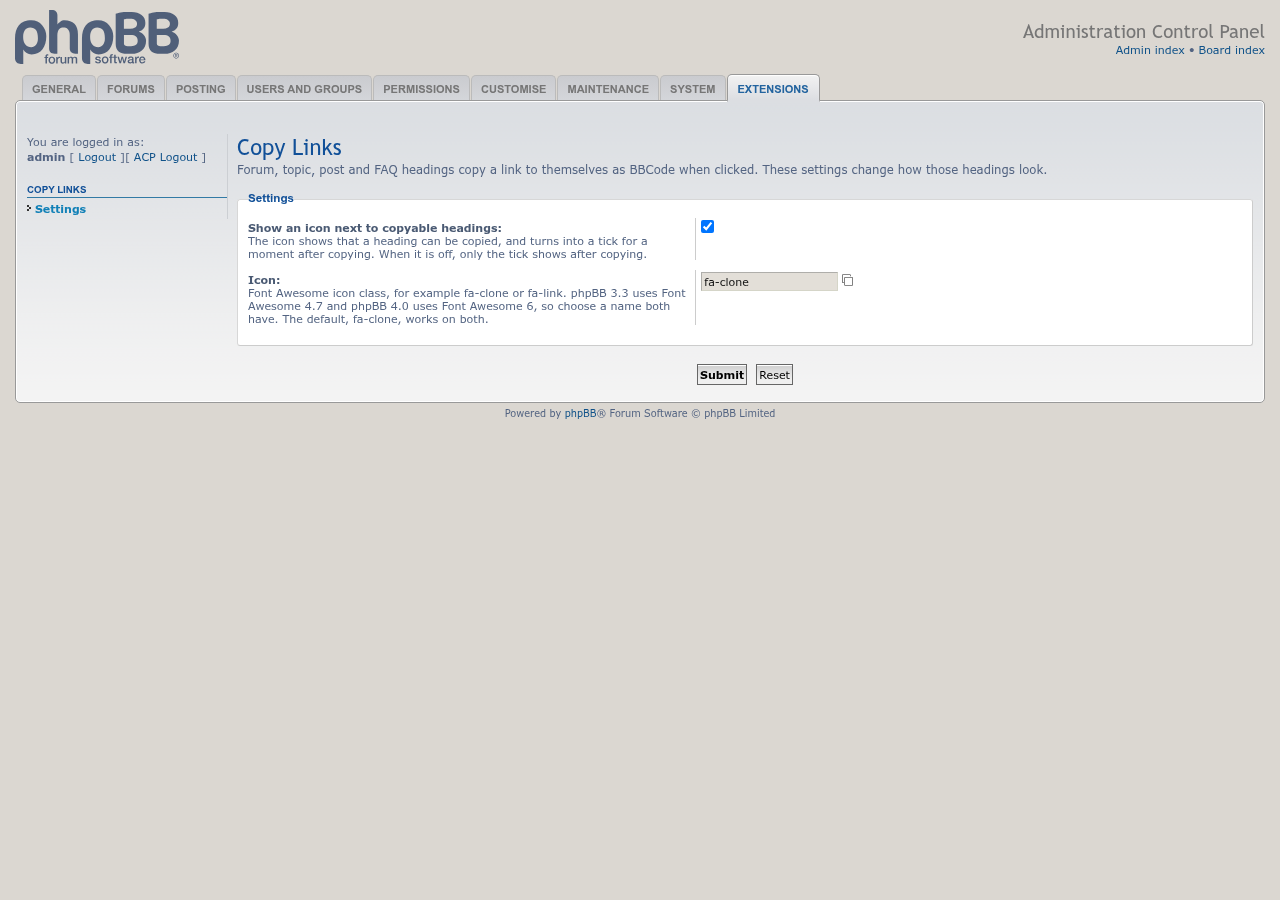
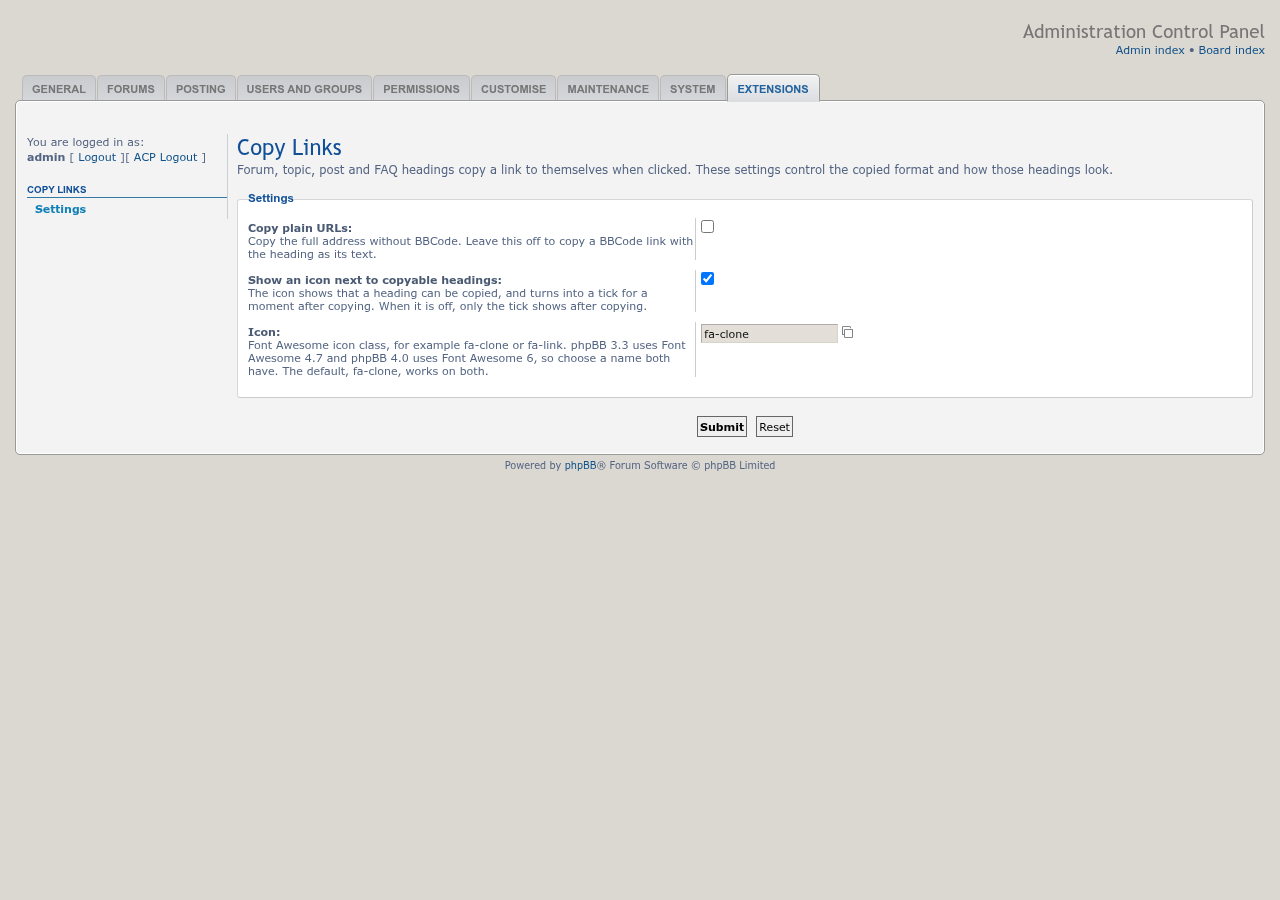
Add plain URL copying and restore anchor focus (#6)
* Align PHP requirements with extension enablement

* Add plain URL copying and restore anchor focus

Changed region(s): [[0.0, 0.2489, 1.0, 0.5289], [0.0, 0.0, 0.1562, 0.0933], [0.5, 0.1867, 0.8438, 0.2178]]

diff --git a/styles/all/template/copylinks.js b/styles/all/template/copylinks.js
@@ -2,7 +2,7 @@
  * Copy Links extension for the phpBB Forum Software package
  *
  * Turns forum, topic, post and FAQ headings into "copy link" controls. A
- * click copies [url=<absolute link>]<heading text>[/url] to the clipboard.
+ * click copies a BBCode link or a plain URL to the clipboard.
  * Links are built from IDs, so they never carry a session ID, and always point
  * at the forum, topic or post itself rather than a page within it.
  *
@@ -17,6 +17,7 @@
 		return;
 	}
 
+	var plainUrl = status.getAttribute('data-plain-url') === '1';
 	var boardUrl = status.getAttribute('data-board-url');
 	var phpExt = status.getAttribute('data-php-ext');
 	var icon = status.getAttribute('data-icon');
@@ -222,6 +223,12 @@
 		}
 
 		event.preventDefault();
-		copy(target, bbcodeFor(url, headingText(target)));
+		// Keep the activated link focused and restore same-page anchor targeting.
+		var fragment = target.getAttribute('href').split('#')[1];
+		if (fragment && document.getElementById(fragment)) {
+			window.location.hash = fragment;
+		}
+		target.focus({preventScroll: true});
+		copy(target, plainUrl ? url : bbcodeFor(url, headingText(target)));
 	});
 })();

diff --git a/styles/all/template/event/overall_footer_after.html b/styles/all/template/event/overall_footer_after.html
@@ -1,11 +1,12 @@
 {% if not S_IS_BOT %}
 	<div id="copylinks-status" class="copylinks-sr-only" role="status" aria-live="polite"
+		data-plain-url="{% if S_COPYLINKS_PLAIN_URL %}1{% else %}0{% endif %}"
 		data-board-url="{{ U_COPYLINKS_BOARD|e('html_attr') }}"
 		data-php-ext="{{ COPYLINKS_PHP_EXT|e('html_attr') }}"
 		data-icon="{{ COPYLINKS_ICON|e('html_attr') }}"
 		data-copied="{{ lang('COPYLINKS_COPIED')|e('html_attr') }}"
 		data-copy-failed="{{ lang('COPYLINKS_COPY_FAILED')|e('html_attr') }}"
-		data-hint="{{ lang('COPYLINKS_HINT')|e('html_attr') }}"></div>
-	<span id="copylinks-hint" hidden>{{ lang('COPYLINKS_HINT') }}</span>
+		data-hint="{{ lang(S_COPYLINKS_PLAIN_URL ? 'COPYLINKS_HINT_PLAIN' : 'COPYLINKS_HINT')|e('html_attr') }}"></div>
+	<span id="copylinks-hint" hidden>{{ lang(S_COPYLINKS_PLAIN_URL ? 'COPYLINKS_HINT_PLAIN' : 'COPYLINKS_HINT') }}</span>
 	{% INCLUDEJS '@phpbbmodders_copylinks/copylinks.js' %}
 {% endif %}

diff --git a/adm/style/acp_copylinks_settings.html b/adm/style/acp_copylinks_settings.html
@@ -7,6 +7,10 @@
 	<fieldset>
 		<legend>{{ lang('ACP_COPYLINKS_SETTINGS') }}</legend>
 		<dl>
+			<dt><label for="copylinks_plain_url">{{ lang('COPYLINKS_PLAIN_URL') }}{{ lang('COLON') }}</label><br><span id="copylinks_plain_url_explain">{{ lang('COPYLINKS_PLAIN_URL_EXPLAIN') }}</span></dt>
+			<dd><input type="checkbox" id="copylinks_plain_url" name="copylinks_plain_url" value="1" aria-describedby="copylinks_plain_url_explain"{% if S_COPYLINKS_PLAIN_URL %} checked{% endif %}></dd>
+		</dl>
+		<dl>
 			<dt><label for="copylinks_icon_enable">{{ lang('COPYLINKS_ICON_ENABLE') }}{{ lang('COLON') }}</label><br><span id="copylinks_icon_enable_explain">{{ lang('COPYLINKS_ICON_ENABLE_EXPLAIN') }}</span></dt>
 			<dd><input type="checkbox" id="copylinks_icon_enable" name="copylinks_icon_enable" value="1" aria-describedby="copylinks_icon_enable_explain"{% if S_COPYLINKS_ICON_ENABLE %} checked{% endif %}></dd>
 		</dl>

diff --git a/acp/main_module.php b/acp/main_module.php
@@ -11,8 +11,7 @@
 namespace phpbbmodders\copylinks\acp;
 
 /**
- * ACP settings page: whether to show an icon next to copyable headings, and
- * which Font Awesome icon to use.
+ * ACP settings page: copy format and the icon next to copyable headings.
  */
 class main_module
 {
@@ -55,12 +54,14 @@ class main_module
 
 			$config->set('copylinks_icon_enable', (int) $request->variable('copylinks_icon_enable', false));
 			$config->set('copylinks_icon', $icon);
+			$config->set('copylinks_plain_url', (int) $request->variable('copylinks_plain_url', false));
 
 			$phpbb_log->add('admin', $user->data['user_id'], $user->ip, 'LOG_COPYLINKS_SETTINGS');
 			trigger_error($language->lang('CONFIG_UPDATED') . adm_back_link($this->u_action));
 		}
 
 		$template->assign_vars([
+			'S_COPYLINKS_PLAIN_URL'	=> !empty($config['copylinks_plain_url']),
 			'U_ACTION'					=> $this->u_action,
 			'S_COPYLINKS_ICON_ENABLE'	=> !empty($config['copylinks_icon_enable']),
 			'COPYLINKS_ICON'			=> !empty($config['copylinks_icon']) ? $config['copylinks_icon'] : self::DEFAULT_ICON,

diff --git a/language/en/acp_copylinks.php b/language/en/acp_copylinks.php
@@ -19,7 +19,9 @@ if (empty($lang) || !is_array($lang))
 }
 
 $lang = array_merge($lang, [
-	'ACP_COPYLINKS_SETTINGS_EXPLAIN'	=> 'Forum, topic, post and FAQ headings copy a link to themselves as BBCode when clicked. These settings change how those headings look.',
+	'COPYLINKS_PLAIN_URL'				=> 'Copy plain URLs',
+	'COPYLINKS_PLAIN_URL_EXPLAIN'		=> 'Copy the full address without BBCode. Leave this off to copy a BBCode link with the heading as its text.',
+	'ACP_COPYLINKS_SETTINGS_EXPLAIN'	=> 'Forum, topic, post and FAQ headings copy a link to themselves when clicked. These settings control the copied format and how those headings look.',
 	'COPYLINKS_ICON_ENABLE'				=> 'Show an icon next to copyable headings',
 	'COPYLINKS_ICON_ENABLE_EXPLAIN'		=> 'The icon shows that a heading can be copied, and turns into a tick for a moment after copying. When it is off, only the tick shows after copying.',
 	'COPYLINKS_ICON'					=> 'Icon',

diff --git a/migrations/add_copy_format.php b/migrations/add_copy_format.php
@@ -1,0 +1,28 @@
+<?php
+/**
+ * Adds the copy-format setting, preserving BBCode as the default.
+ *
+ * @license GNU General Public License, version 2 (GPL-2.0)
+ */
+
+namespace phpbbmodders\copylinks\migrations;
+
+class add_copy_format extends \phpbb\db\migration\migration
+{
+	public function effectively_installed()
+	{
+		return isset($this->config['copylinks_plain_url']);
+	}
+
+	public static function depends_on()
+	{
+		return ['\\phpbbmodders\\copylinks\\migrations\\install_icon_settings'];
+	}
+
+	public function update_data()
+	{
+		return [
+			['config.add', ['copylinks_plain_url', 0]],
+		];
+	}
+}

diff --git a/event/listener.php b/event/listener.php
@@ -73,6 +73,7 @@ class listener implements EventSubscriberInterface
 	public function assign_template_vars()
 	{
 		$this->template->assign_vars([
+			'S_COPYLINKS_PLAIN_URL'	=> !empty($this->config['copylinks_plain_url']),
 			'U_COPYLINKS_BOARD'		=> generate_board_url() . '/',
 			'COPYLINKS_PHP_EXT'		=> $this->php_ext,
 			'COPYLINKS_ICON'		=> !empty($this->config['copylinks_icon_enable']) ? (string) $this->config['copylinks_icon'] : '',

diff --git a/language/en/common.php b/language/en/common.php
@@ -19,6 +19,7 @@ if (empty($lang) || !is_array($lang))
 }
 
 $lang = array_merge($lang, [
+	'COPYLINKS_HINT_PLAIN'	=> 'Copy a link to this',
 	'COPYLINKS_HINT'		=> 'Copy a link to this as BBCode',
 	'COPYLINKS_COPIED'		=> 'The link has been copied.',
 	'COPYLINKS_COPY_FAILED'	=> 'The link could not be copied automatically. Copy it from here:',

diff --git a/README.md b/README.md
@@ -10,11 +10,12 @@ Click a forum, topic, post or FAQ heading to copy a link to it, ready-made as BB
 - Also works on the title above the posting form and on the posts in the topic review below it.
 - Links are full addresses built from the forum, topic or post ID, so they work anywhere they're pasted and never carry a session ID. They always point at the forum, topic or post itself, not a page of it.
 - A small icon (Font Awesome `fa-clone` by default) marks each copyable heading and turns into a tick for a moment after copying. Screen readers announce "The link has been copied."
-- Built for keyboard and screen reader use: headings stay ordinary links reached with Tab and copied with Enter, each one is described as "Copy a link to this as BBCode", the icon is hidden from screen readers, and focus is always clearly outlined.
+- Built for keyboard and screen reader use: headings stay ordinary links reached with Tab and copied with Enter, each one has a description matching the selected copy format, the icon is hidden from screen readers, and focus is always clearly outlined.
+- Clicking a post or FAQ question also follows its anchor and keeps the link focused.
 - Ctrl-, Cmd-, Shift- and middle-clicks still open the link as usual.
-- When the browser won't allow copying (for example a board on plain `http://`), the BBCode is shown in a box to copy by hand.
+- When the browser won't allow copying (for example a board on plain `http://`), the selected link format is shown in a box to copy by hand.
 - Search engine bots get the board unchanged.
-- Turn the icon on or off, or choose another icon, under **ACP → Extensions → Copy Links → Settings**.
+- Choose BBCode (the default) or plain URLs, turn the icon on or off, or choose another icon, under **ACP → Extensions → Copy Links → Settings**.
 - Works with prosilver and styles based on it.
 
 ## Screenshots
@@ -23,7 +24,7 @@ Click a forum, topic, post or FAQ heading to copy a link to it, ready-made as BB
 <tr>
 <td><a href="docs/images/screenshots/copylinks-topic.png"><img src="docs/images/screenshots/copylinks-topic.png" width="280" alt="Tick after copying a topic title"></a></td>
 <td><a href="docs/images/screenshots/copylinks-faq.png"><img src="docs/images/screenshots/copylinks-faq.png" width="280" alt="Tick after copying an FAQ question"></a></td>
-<td><a href="docs/images/screenshots/copylinks-acp-settings.png"><img src="docs/images/screenshots/copylinks-acp-settings.png" width="280" alt="ACP settings"></a></td>
+<td><a href="docs/images/screenshots/copylinks-acp-settings.png"><img src="docs/images/screenshots/copylinks-acp-settings.png" width="280" height="197" alt="ACP settings"></a></td>
 </tr>
 </table>
 
@@ -39,6 +40,8 @@ Click an image for the full size. See the [screenshot gallery](docs/images/scree
 1. Copy the extension to `/ext/phpbbmodders/copylinks`
 2. In the Administration Control Panel, go to **Customise → Manage extensions**
 3. Enable the **Copy Links** extension
+
+After updating an existing installation, disable and re-enable the extension to apply the new settings migration; do not delete its data.
 
 ## Contributing
 

diff --git a/docs/images/screenshots/README.md b/docs/images/screenshots/README.md
@@ -22,6 +22,6 @@ Clicking a question in the FAQ copies a link to that question.
 
 ## ACP settings
 
-**Extensions → Copy Links → Settings**: turn the icon on or off, and choose which Font Awesome icon it is. With the icon off, only the tick shows after a copy.
+**Extensions → Copy Links → Settings**: choose plain URLs or BBCode (the default), turn the icon on or off, and choose which Font Awesome icon it is. With the icon off, only the tick shows after a copy.
 
-<a href="copylinks-acp-settings.png"><img src="copylinks-acp-settings.png" width="700" alt="ACP settings"></a>
+<a href="copylinks-acp-settings.png"><img src="copylinks-acp-settings.png" width="700" height="492" alt="ACP settings"></a>
